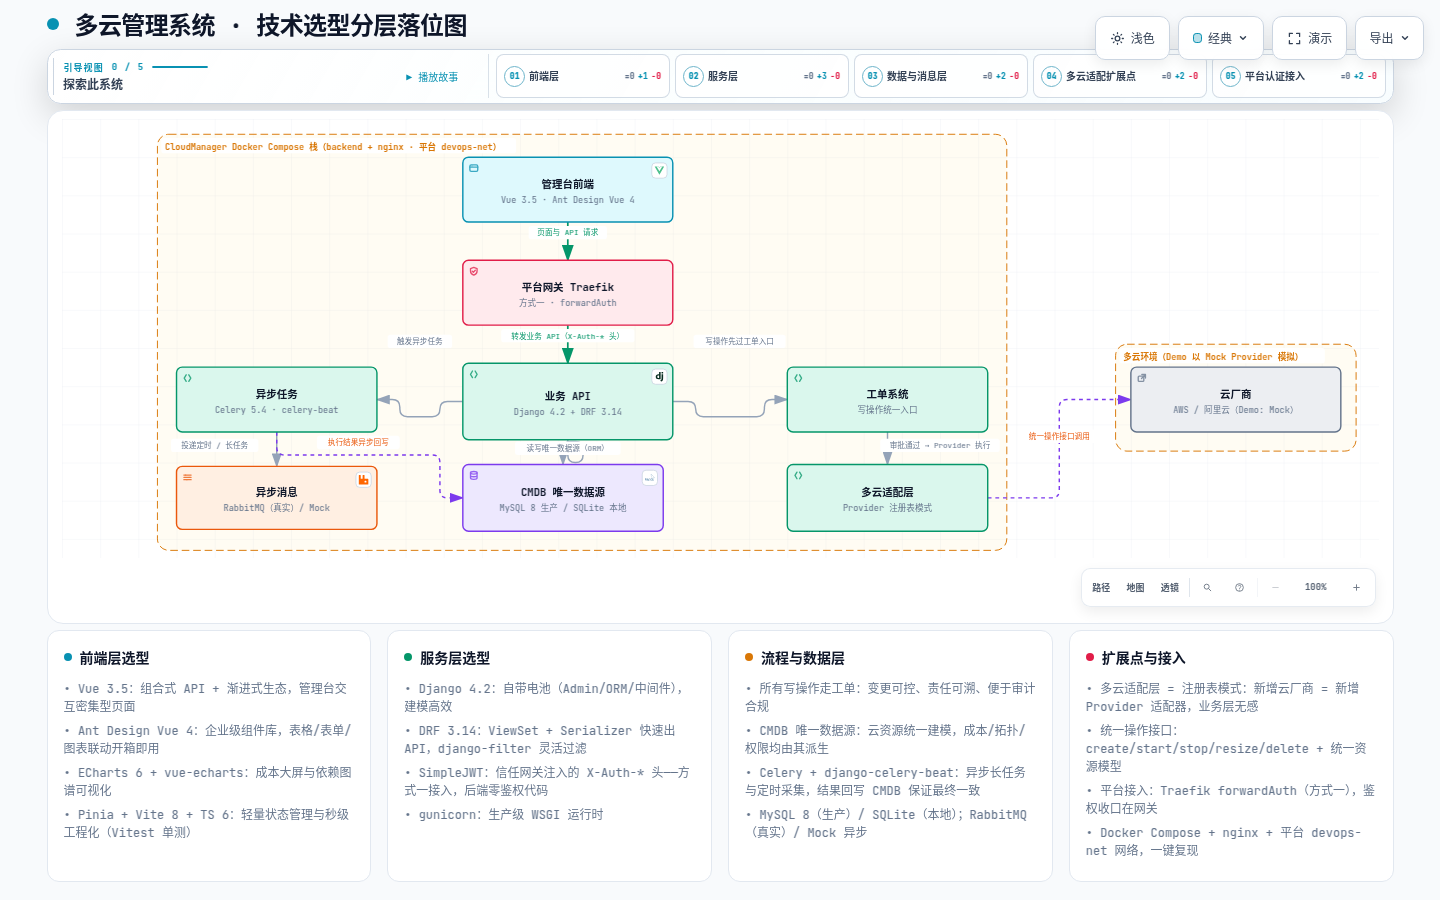
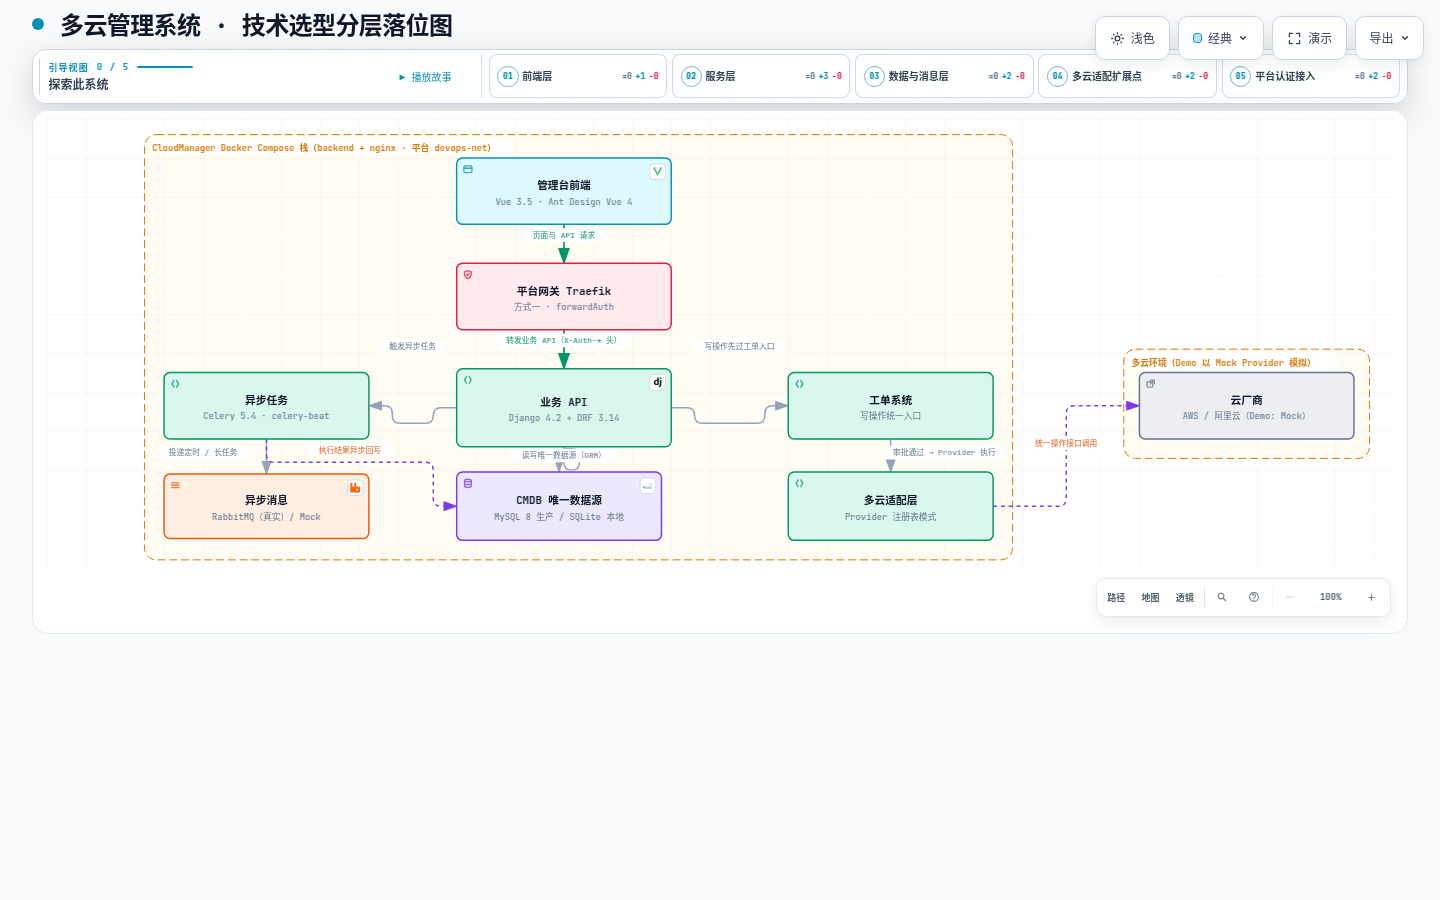
docs(visuals): CloudManager 落位图删除4张选型卡片（与分层设计说明去重），保留主流程图

diff --git a/visuals/CloudManager/tech-stack-layers.html b/visuals/CloudManager/tech-stack-layers.html
@@ -5546,57 +5546,7 @@ OTHER DEALINGS IN THE FONT SOFTWARE.
 
     <!-- Info Cards -->
     <div class="cards">
-      <div class="card">
-        <div class="card-header">
-          <div class="card-dot cyan"></div>
-          <h3>前端层选型</h3>
-        </div>
-        <ul>
-          <li>&bull; Vue 3.5：组合式 API + 渐进式生态，管理台交互密集型页面</li>
-          <li>&bull; Ant Design Vue 4：企业级组件库，表格/表单/图表联动开箱即用</li>
-          <li>&bull; ECharts 6 + vue-echarts：成本大屏与依赖图谱可视化</li>
-          <li>&bull; Pinia + Vite 8 + TS 6：轻量状态管理与秒级工程化（Vitest 单测）</li>
-        </ul>
-      </div>
 
-      <div class="card">
-        <div class="card-header">
-          <div class="card-dot emerald"></div>
-          <h3>服务层选型</h3>
-        </div>
-        <ul>
-          <li>&bull; Django 4.2：自带电池（Admin/ORM/中间件），建模高效</li>
-          <li>&bull; DRF 3.14：ViewSet + Serializer 快速出 API，django-filter 灵活过滤</li>
-          <li>&bull; SimpleJWT：信任网关注入的 X-Auth-* 头——方式一接入，后端零鉴权代码</li>
-          <li>&bull; gunicorn：生产级 WSGI 运行时</li>
-        </ul>
-      </div>
-
-      <div class="card">
-        <div class="card-header">
-          <div class="card-dot amber"></div>
-          <h3>流程与数据层</h3>
-        </div>
-        <ul>
-          <li>&bull; 所有写操作走工单：变更可控、责任可溯、便于审计合规</li>
-          <li>&bull; CMDB 唯一数据源：云资源统一建模，成本/拓扑/权限均由其派生</li>
-          <li>&bull; Celery + django-celery-beat：异步长任务与定时采集，结果回写 CMDB 保证最终一致</li>
-          <li>&bull; MySQL 8（生产）/ SQLite（本地）；RabbitMQ（真实）/ Mock 异步</li>
-        </ul>
-      </div>
-
-      <div class="card">
-        <div class="card-header">
-          <div class="card-dot rose"></div>
-          <h3>扩展点与接入</h3>
-        </div>
-        <ul>
-          <li>&bull; 多云适配层 = 注册表模式：新增云厂商 = 新增 Provider 适配器，业务层无感</li>
-          <li>&bull; 统一操作接口：create/start/stop/resize/delete + 统一资源模型</li>
-          <li>&bull; 平台接入：Traefik forwardAuth（方式一），鉴权收口在网关</li>
-          <li>&bull; Docker Compose + nginx + 平台 devops-net 网络，一键复现</li>
-        </ul>
-      </div>
     </div>
 
   </div>
